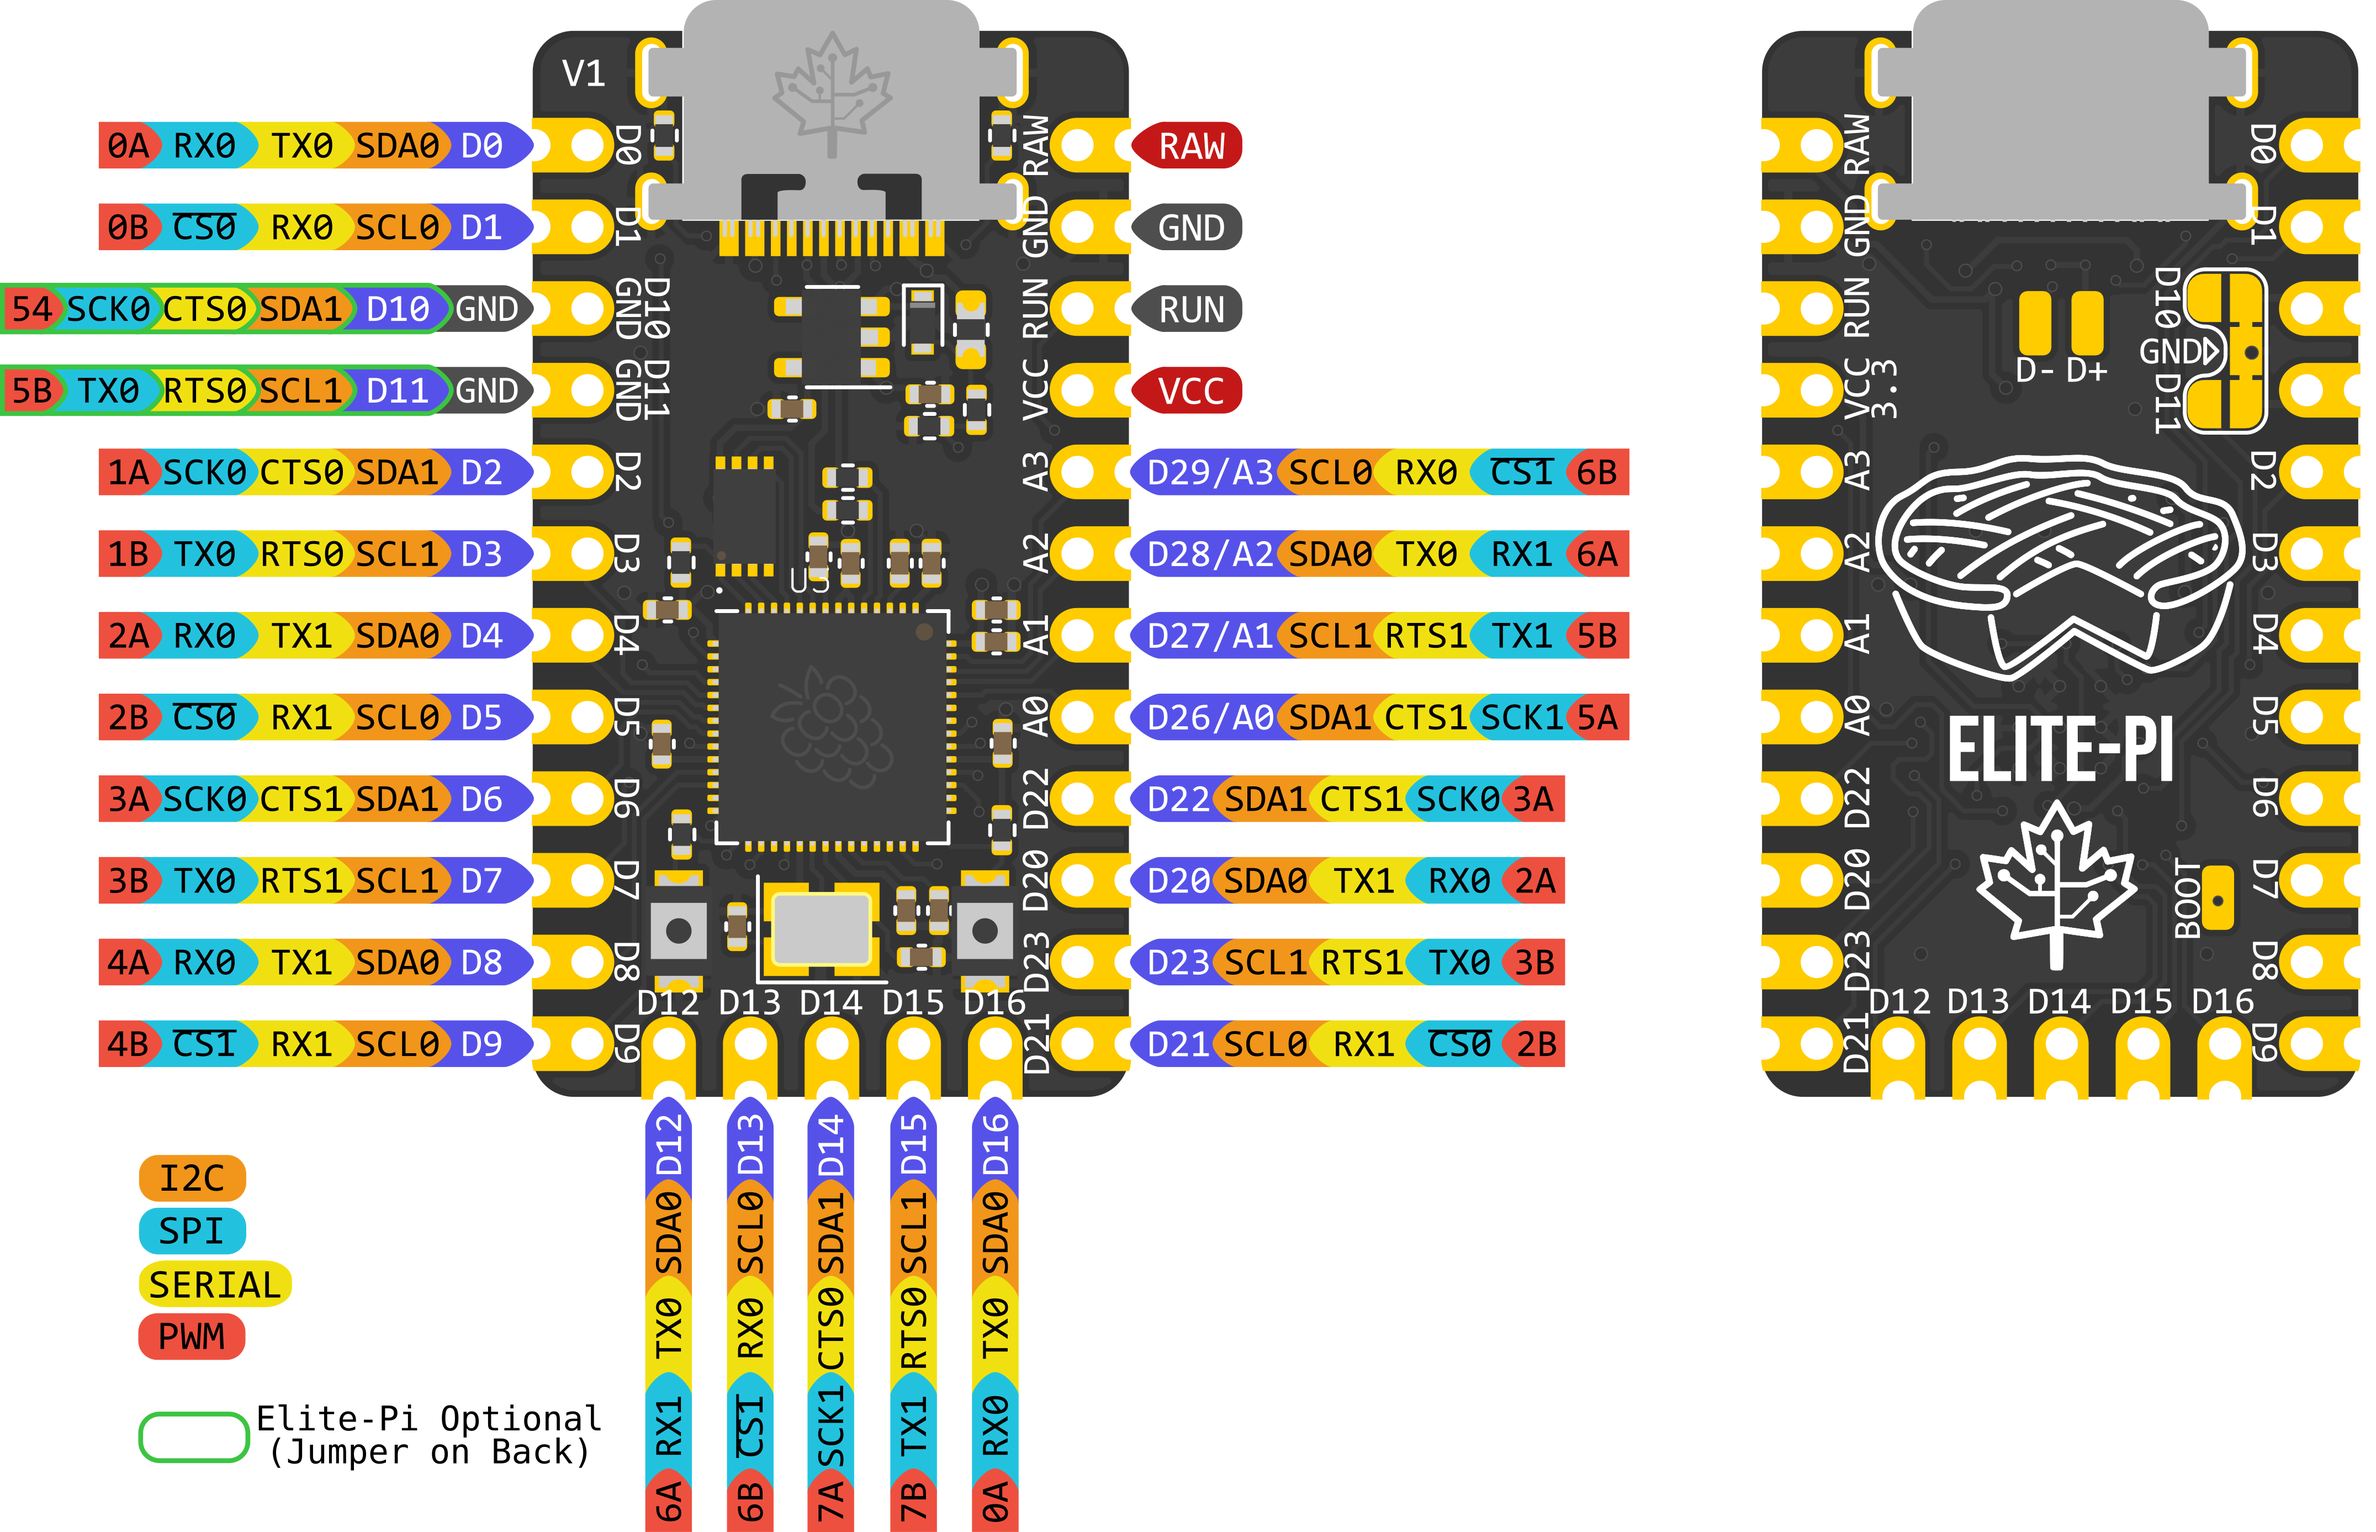
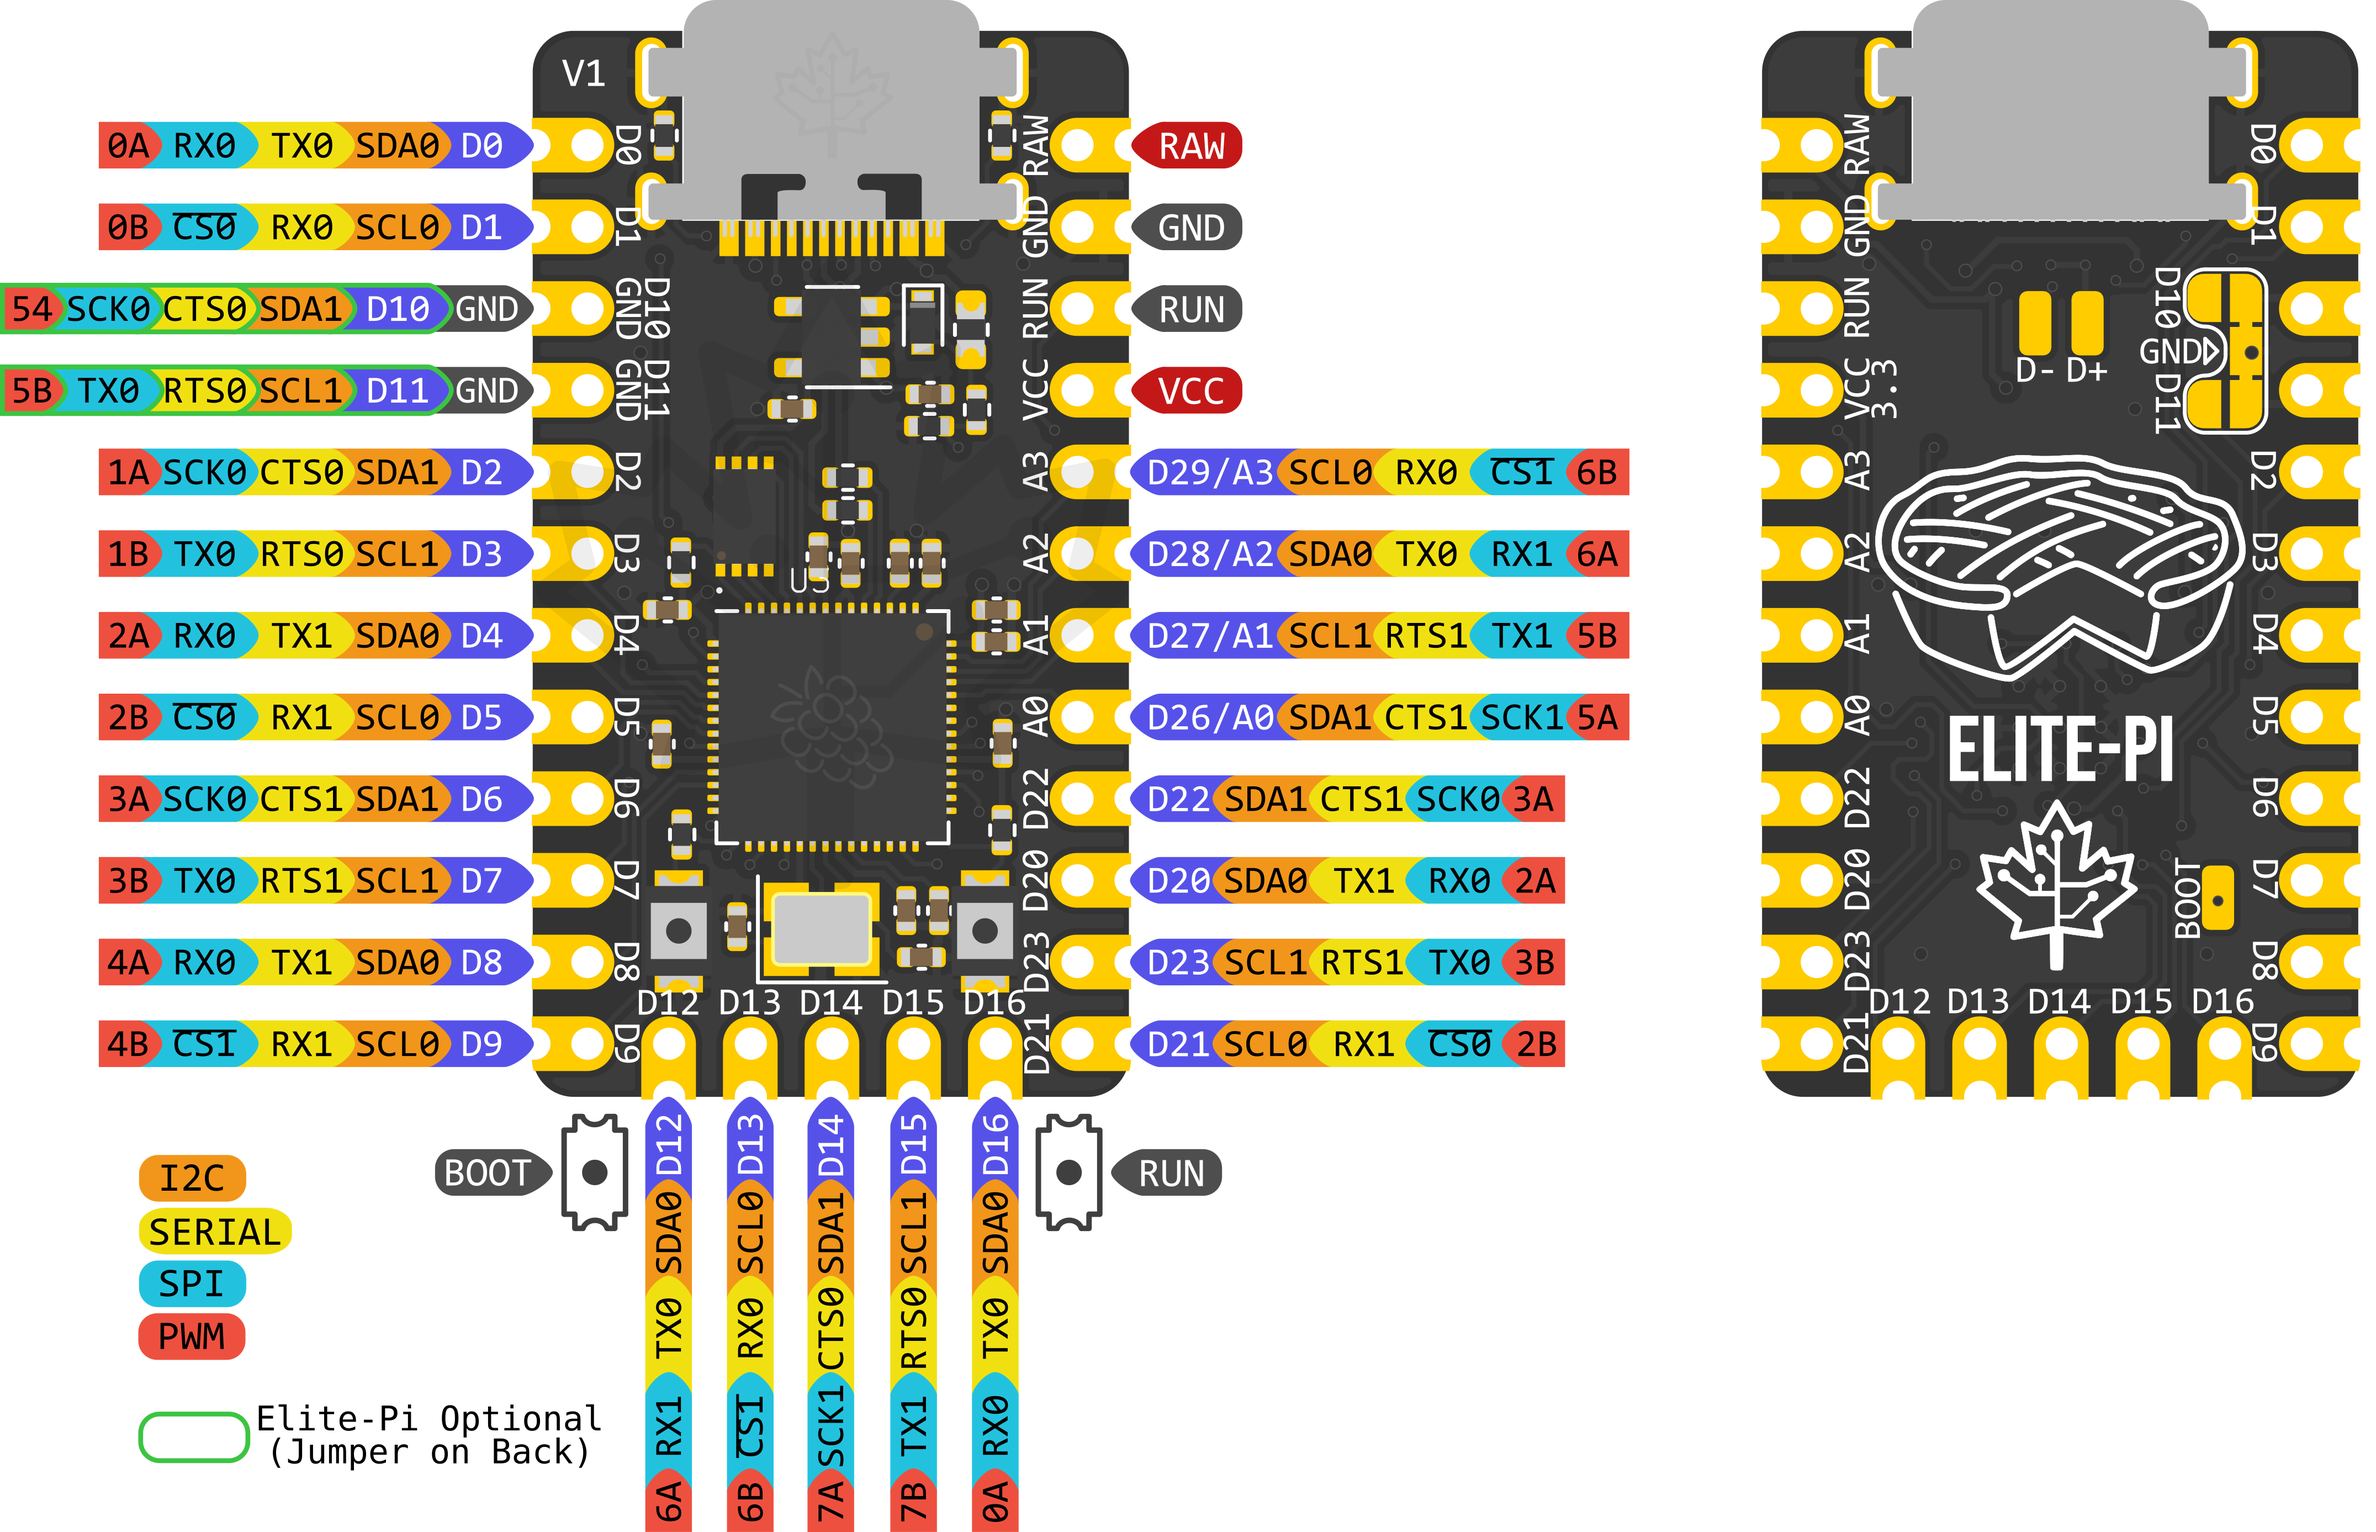
Rename Reset to Run

Changed region(s): [[0.436, 0.713, 0.5294, 0.8061], [0.1868, 0.7441, 0.2803, 0.8061], [0.0623, 0.7751, 0.1246, 0.8681]]

diff --git a/docs/elite-pi-guide.md b/docs/elite-pi-guide.md
@@ -62,9 +62,9 @@ Alternatively, if you are creating a keyboard from scratch, you can use it as a 
 
 ### Reset/Boot
 
-At the moment with V1 of the Elite-Pi, there are two buttons on it for `Reset` and `Boot`, unlike the Elite-C, where there is only one button needed for `Reset`. The left button is for `Boot`, and the right button is for `Reset`. You will mainly be interested in getting the Elite-Pi into bootloader mode, so please see the [directions below](#flashing) for doing this.
+At the moment with V1 of the Elite-Pi, there are two buttons on it for `Run/Reset` and `Boot`, unlike the Elite-C, where there is only one button needed for `Reset`. The left button is for `Boot`, and the right button is for `Run`. You will mainly be interested in getting the Elite-Pi into bootloader mode, so please see the [directions below](#flashing) for doing this.
 
-In the future, we plan on reducing the Elite-Pi to have just one button to perform `Reset` and `Boot`.
+In the future, we plan on reducing the Elite-Pi to have just one button to perform `Run` and `Boot`.
 
 ### Flashing
 
@@ -74,7 +74,7 @@ To repeat the information there, here's the steps:
 
 1. Enter bootloader mode (use one of the following methods):
    - For a new Elite-Pi out of the packaging, it will already start in bootloader mode when plugged into the computer
-   - Hold the `Boot` button (the left button) down, press the `Reset` button (the right button), and release both buttons
+   - Hold the `Boot` button (the left button) down, press the `Run` button (the right button), and release both buttons
    - Hold the `Boot` button (the left button) down, while pluging in the USB-C cable
    - Press the `QK_BOOT` keycode (if present on a flashed keyboard)
    - Double-tap the `Reset` button (if flashed and was compiled with `RP2040_BOOTLOADER_DOUBLE_TAP_RESET` option)
